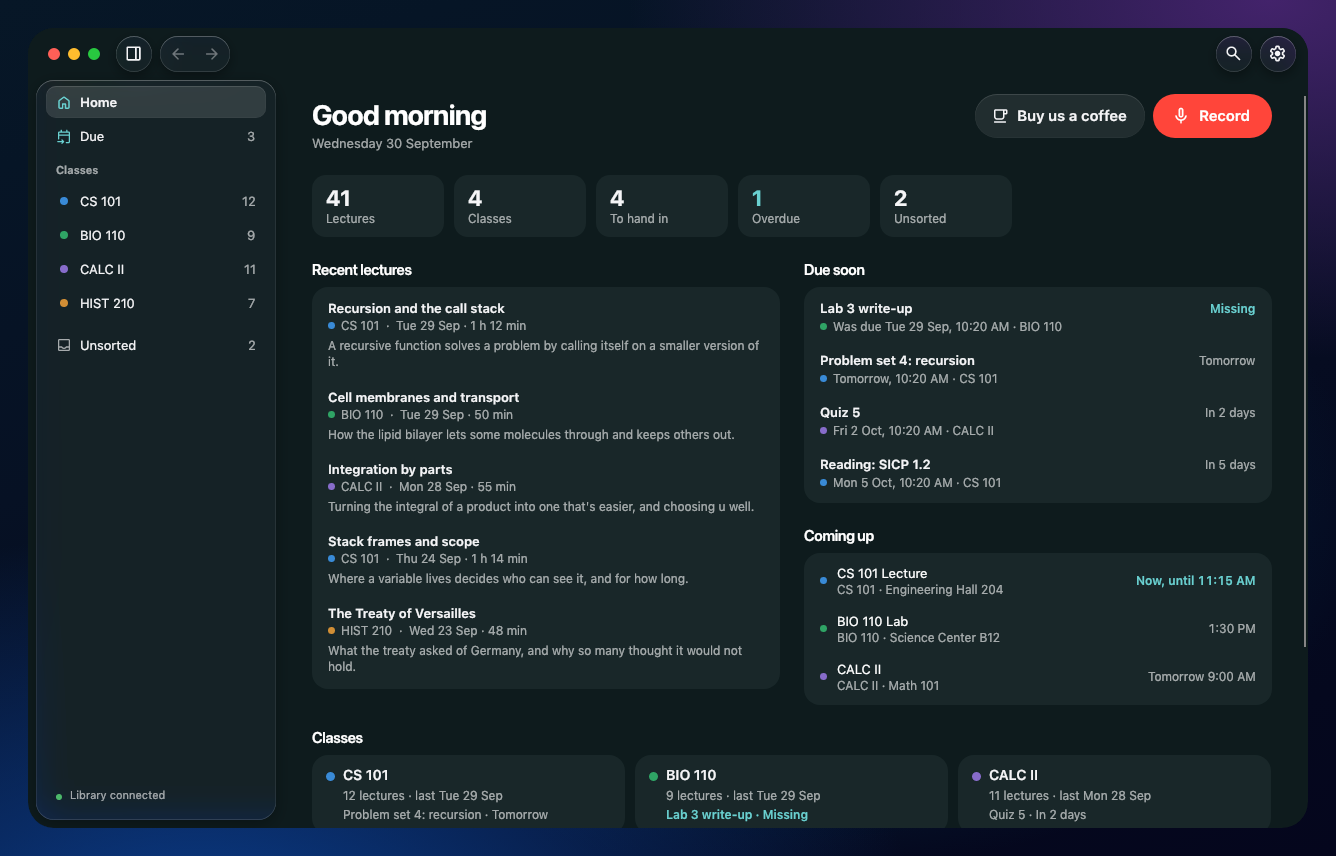
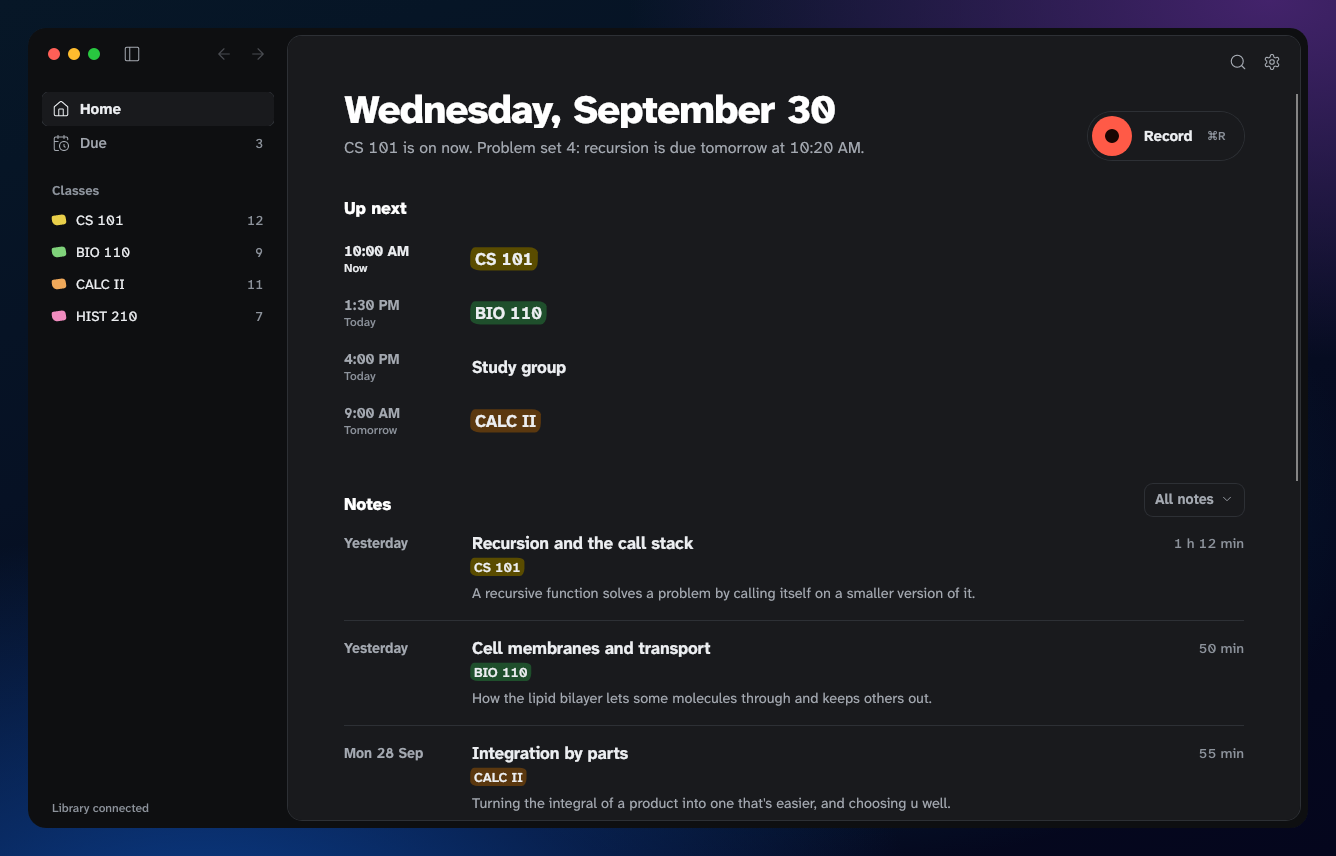
README and 0.15.1's notes for the new look: the README's pictures are redrawn by the app as it looks now (the heart, the plot, the formulas, Home, the menu bar and the quick panel), Due's calendar stands where the old Canvas picture was, a film shows notes typed while a lecture records, and its word

diff --git a/README.md b/README.md
@@ -30,6 +30,15 @@ Study Stash is your own lecture library. Record a lecture and it's transcribed o
 filed under the right class and turned into study notes, next to your Canvas assignments and ready
 to ask about. Two students build it, with Claude.
 
+## Your notes and the lecture's, on one page
+
+Recording opens the lecture's page at once, and you can type your own notes there while it records,
+as much or as little as you like. When you stop, the write-up is built round what you typed: every
+line of yours is kept, in ink, and what the lecture said about it is added in grey. **Only my
+notes** hides what was added.
+
+![Recording a lecture from Up next, typing notes while it records, and reading the write-up](docs/design/semester-ui-pictures/1-record-and-notes.gif)
+
 ## The notes come with the pictures
 
 Once a lecture's notes are written, a second pass reads the transcript and decides whether anything
@@ -76,13 +85,15 @@ this**, **Quiz me** and **Where was this said?**, which opens the transcript at 
   to review, written by Claude, ChatGPT or Gemini with the plan
   you already have, or by a free model on your own computer (Ollama, the advanced way). Rewrite a
   lecture's notes with another AI and keep whichever you like, or fix them yourself with **Edit**.
+- **Takes your own notes too, while it records.** Type on the lecture's page as it records, and the
+  write-up keeps every line of yours and adds the rest round it.
 - **Files every lecture under its class**, working out which from what was said, or using the class
-  you picked. Anything it can't place waits in **Unsorted**, and a lecture you don't need can be
-  deleted (with Undo).
-- **Shows you everything at a glance.** The library opens on **Home**: what's due soon, what's
-  coming up, your newest lectures and a card for every class. Each class (or club) has a home of
-  its own too: its lectures, what's to hand in, when it next meets, its files, and on Canvas its
-  assignments, modules and announcements.
+  you picked. One it can't place stays on Home as Unsorted, where the folder under its title moves
+  it in a click (with Undo), and a lecture you don't need can be deleted (with Undo).
+- **Shows you what's next.** The library opens on **Home**: the date, a sentence on what's pressing,
+  **Up next** (click an event to record it) and every note, newest first. Each folder, a class, a
+  club or work, has one page: its notes by week, and beside them what's due, its lists on Canvas and
+  when it next meets.
 - **Ask about any lecture, class, or all of them.** The Ask bar under a lecture's notes answers
   from your notes and transcripts, with the engine you pick for that question.
 - **Finds anything in a second.** The quick panel (⌥Space on a Mac, Alt+Shift+Space on Windows)
@@ -94,8 +105,9 @@ this**, **Quiz me** and **Where was this said?**, which opens the transcript at 
 - **Takes your own notes and slides too.** Attach iPad handwriting, slides, PDFs or photos to a
   lecture or class (drag them in). Their words, handwriting included, are read on your computer
   and go into the lecture's notes, Ask and Claude.
-- **Brings in Canvas.** What's due across your classes, each assignment's instructions, rubric,
-  your submission and feedback, module files and pages, announcements, quizzes and discussions.
+- **Brings in Canvas.** What's due across your classes as a calendar, by month or by week, with
+  what's missing and what's handed in; and each assignment's instructions, rubric, your submission
+  and feedback, module files and pages, announcements, quizzes and discussions.
 - **Brings lectures over from Granola.** If you record in Granola too, sign in once and Study Stash
   offers each lecture it doesn't have, with a **Transfer** button. See [Granola](#granola).
 - **Comes with you on your phone.** Your library serves a phone app over Tailscale: read your
@@ -104,13 +116,13 @@ this**, **Quiz me** and **Where was this said?**, which opens the transcript at 
 - **Lets AI apps read your library** over MCP: Claude Desktop, Claude Code, the ChatGPT app (with
   Codex) and Gemini CLI on your computer with one click (no Tailscale needed), and claude.ai and
   chatgpt.com through a Tailscale Funnel.
-- **Looks at home on your computer.** A native Mac look (Liquid Glass) and Windows 11's, light and
-  dark, with twenty colour themes in Settings → Appearance.
+- **Easy to read.** Black, grey and white, in a typeface made to be legible (Atkinson Hyperlegible
+  Next), with each class's highlighter the one colour. Light and dark, on a Mac and on Windows.
 - **Keeps itself up to date**, quietly, when nothing is recording.
 
 <picture>
   <source media="(prefers-color-scheme: dark)" srcset="docs/images/home-dark.png">
-  <img src="docs/images/home-light.png" alt="Home in the library window: the day's numbers, recent lectures, what's due soon and coming up, and a card for every class">
+  <img src="docs/images/home-light.png" alt="Home in the library window: the date, what's pressing, Up next, and every note, newest first">
 </picture>
 
 <p align="center">
@@ -118,7 +130,7 @@ this**, **Quiz me** and **Where was this said?**, which opens the transcript at 
   <img src="docs/images/quick-panel.png" width="40%" alt="The quick panel: search results, and an answer from your notes">
 </p>
 
-![Canvas in Study Stash: what's due, and an assignment with its rubric](docs/images/canvas-due.png)
+![Due as a calendar: each thing due in its class's highlighter, with what's missing and what's handed in](docs/design/semester-ui-pictures/due-light.png)
 
 ## One computer or two
 
@@ -254,8 +266,10 @@ shows the chosen model's lines only.
 transcript ("Speaker 2:") where a voice other than the lecturer's seems to speak; it is careful
 rather than complete, and can be wrong.
 
-**While it records**, a small pill in your theme's colour floats on screen with a level meter. Point
-at it for the time and Stop, click it to open the recorder, or pause and stop from the menu bar.
+**While it records**, the lecture's page has the recording's bar across its top: the level, the
+time, Pause and Stop. When the library window isn't the one in front, a small white pill floats on
+screen instead: its red dot is Stop, then the class, the level and the time. Pause and stop from the
+menu bar too.
 
 ## Your AI
 

diff --git a/docs/releases/0.15.1.md b/docs/releases/0.15.1.md
@@ -1,15 +1,21 @@
 ## What's new
 
-* **Bring your lectures over from Granola.** If you also record in Granola, open **Settings → Granola** and press **Connect**. You sign in on Granola's own page in your browser, and Study Stash never sees your password. From then on it checks every few minutes for lectures it doesn't have. A new one gets a notification with a **Transfer** button, and the Granola page lists every one that's waiting, each with **Transfer** and **Leave it**. A transferred lecture is filed under its class and gets study notes, like one you recorded here.
-* **What comes over depends on your Granola plan.** Granola's free plan shares each lecture's notes from the last 30 days, and Study Stash writes its study notes from Granola's summary. A paid Granola plan shares the transcript too, and the notes are written from that.
+* **A new look.** Study Stash is redrawn: black, grey and white, in a typeface made to be easy to read, with each class's highlighter the one colour and red only for recording and for what's late.
+* **One sidebar, one page.** The sidebar has Home, Due, then your folders under Classes, Clubs and Work, and what's coming up. A folder has one page: its notes by week, and beside them what's due, its lists on Canvas and when it next meets. A note fills the page, and you rename it by typing over its title.
+* **Home shows what's next.** The date, a sentence on what's pressing, **Up next** (click an event to record it) and every note, newest first. Notes in no folder are here too, marked Unsorted: the folder under a note's title moves it, with Undo.
+* **Type your own notes while it records.** Recording opens the lecture's page at once. Type there as it records, as much or as little as you like. The write-up keeps every line of yours, in ink, and adds what the lecture said in grey. **Only my notes** hides what was added.
+* **Due is a calendar.** By month or by week, each thing due in its class's highlighter, with Missing under what's late and a line through what's handed in.
+* **Bring your lectures over from Granola.** If you also record in Granola, open **Settings → Granola** and press **Connect**. You sign in on Granola's own page in your browser, and Study Stash never sees your password. From then on it checks every few minutes for lectures it doesn't have. A new one gets a notification with a **Transfer** button, and the Granola page lists every one that's waiting, each with **Transfer** and **Leave it**. A transferred lecture is filed and gets study notes, like one you recorded here. Granola's free plan shares each lecture's notes from the last 30 days, and the study notes are written from Granola's summary. A paid Granola plan shares the transcript too, and the notes are written from that.
 
 ## Fixes
 
 * **Saving Settings keeps a class added meanwhile.** A class added from somewhere else while Settings was open (by your AI, or from another computer) was dropped the next time Settings saved. It's kept now, and saving the library's page also leaves each class in its sidebar folder.
+* **No flash of magenta.** The whole window could turn magenta for a moment when a page with the Ask bar opened.
 
 ## Good to know
 
-* **It's new.** If a lecture doesn't come over the way it should, [tell us](https://github.com/Joseph-Rus/study-stash/issues).
-* **Where it is:** Settings → Granola is on the computer you record on. Study Stash only reads from Granola and changes nothing there, and **Disconnect** forgets the sign-in. Study Stash isn't affiliated with Granola.
+* **What moved:** Unsorted is no longer in the sidebar (those notes are on Home), and a class's tabs and tiles are gone: everything a class had is on its one page. A recording is called a lecture in a class, a meeting in a club or work folder, and a recording when it's in no folder.
+* **Granola is new.** If a lecture doesn't come over the way it should, [tell us](https://github.com/Joseph-Rus/study-stash/issues). Settings → Granola is on the computer you record on. Study Stash only reads from Granola and changes nothing there, and **Disconnect** forgets the sign-in. Study Stash isn't affiliated with Granola.
+* **Not changed yet:** the phone app and the layouts of Settings and setup keep their old arrangement, in the new colours and type.
 * **Needs:** on a Mac, macOS 15 (Sequoia) or later, Apple silicon or Intel; on Windows, Windows 10 or 11.
 * **Updating:** installed copies update themselves within a few hours, when nothing is recording and you aren't typing in a lecture's notes. To update now, use Settings → Your library → Library → Update now (a laptop: Settings → General → Updates), or Update now from the menu bar on a Mac.
